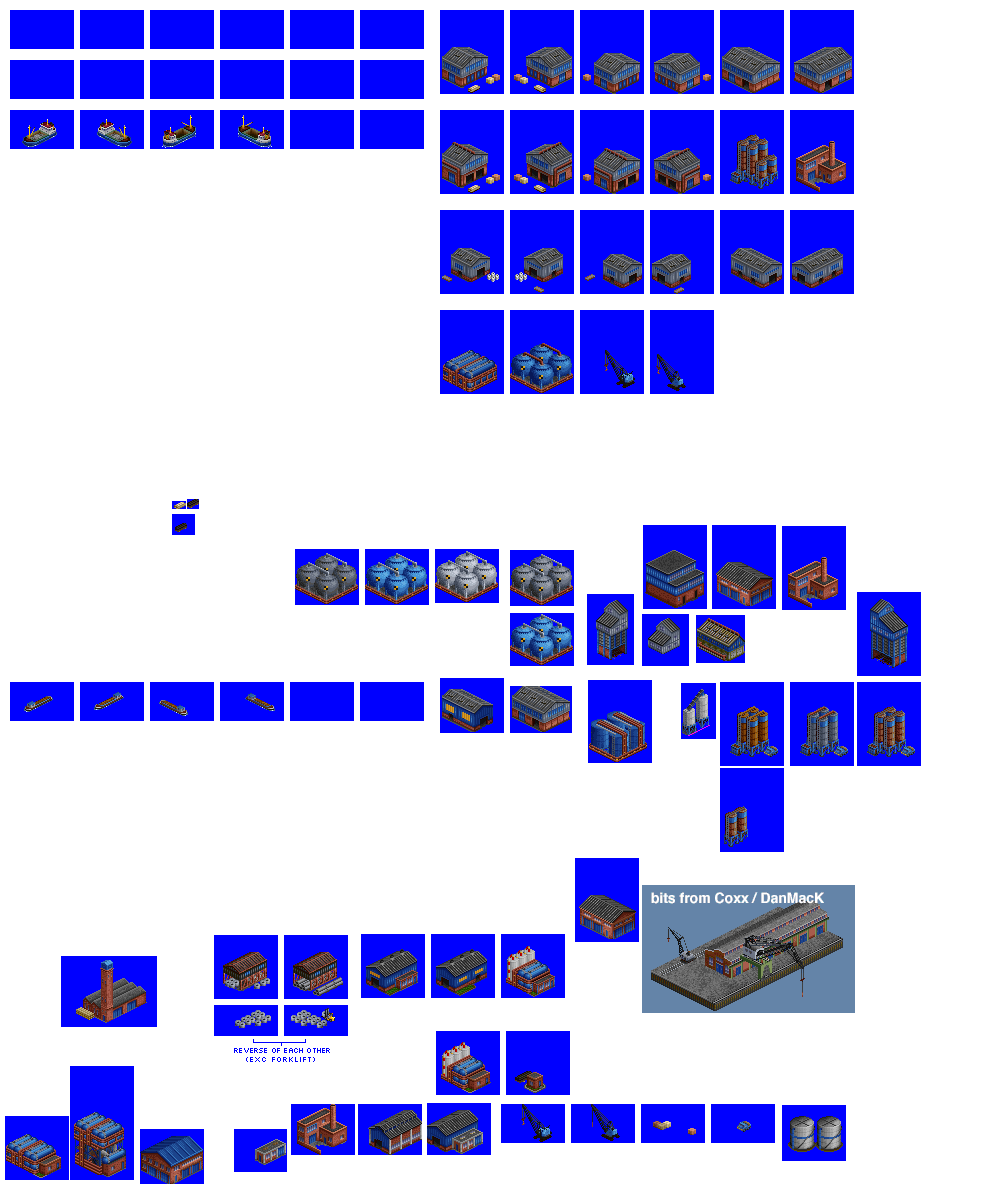
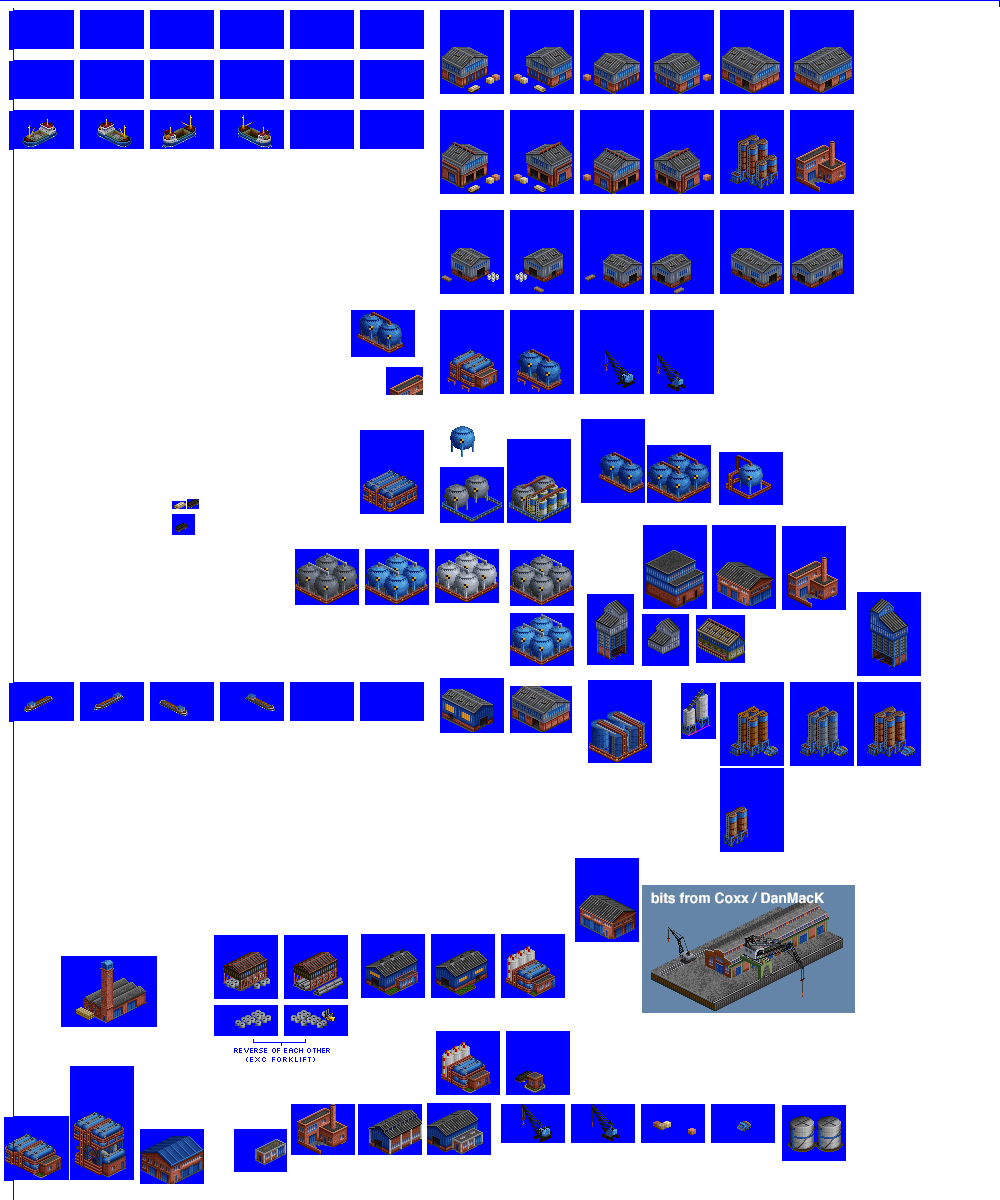
Change: improved version of Port, reduced chemical tank density

Changed region(s): [[0.341, 0.2467, 0.806, 0.4625], [0.0, 0.9558, 0.031, 0.9867]]

diff --git a/src/industries/port.py b/src/industries/port.py
@@ -164,33 +164,13 @@ spriteset_shed_full_nw_se = industry.add_spriteset(
 spriteset_shed_full_ne_sw = industry.add_spriteset(
     sprites=[(790, 210, 64, 84, -31, -61)],
 )
-# horizontal tanks use the same sprite, but adjusted offsets for each coast
-spriteset_tanks_horizontal_nw_se = industry.add_spriteset(
+spriteset_tanks_horizontal = industry.add_spriteset(
     sprites=[(440, 310, 64, 84, -31, -61)],
 )
-spriteset_tanks_horizontal_ne_sw = industry.add_spriteset(
-    sprites=[(440, 310, 64, 84, -27, -61)],
-)
-spriteset_tanks_horizontal_se_nw = industry.add_spriteset(
-    sprites=[(440, 310, 64, 84, -30, -61)],
-)
-spriteset_tanks_horizontal_sw_ne = industry.add_spriteset(
-    sprites=[(440, 310, 64, 84, -28, -61)],
-)
-# sphere tanks use the same sprite, but adjusted offsets for each coast
-spriteset_tanks_sphere_nw_se = industry.add_spriteset(
+spriteset_tanks_sphere = industry.add_spriteset(
     sprites=[(510, 310, 64, 84, -31, -61)],
 )
-spriteset_tanks_sphere_ne_sw = industry.add_spriteset(
-    sprites=[(510, 310, 64, 84, -30, -61)],
-)
-spriteset_tanks_sphere_se_nw = industry.add_spriteset(
-    sprites=[(510, 310, 64, 84, -30, -61)],
-)
-spriteset_tanks_sphere_sw_ne = industry.add_spriteset(
-    sprites=[(510, 310, 64, 84, -31, -61)],
-)
-# sphere tanks use the same sprite, but adjusted offsets for each coast
+# silos use the same sprite, but adjusted offsets for each coast
 spriteset_silos_nw_se = industry.add_spriteset(
     sprites=[(720, 110, 64, 84, -33, -60)],
 )
@@ -304,16 +284,16 @@ industry.add_magic_spritelayout(
         "jetty_foundations": True,
         "building_sprites": {
             "se": [
-                spriteset_tanks_horizontal_nw_se,
+                spriteset_tanks_horizontal,
             ],
             "sw": [
-                spriteset_tanks_horizontal_ne_sw,
+                spriteset_tanks_horizontal,
             ],
             "nw": [
-                spriteset_tanks_horizontal_se_nw,
+                spriteset_tanks_horizontal,
             ],
             "ne": [
-                spriteset_tanks_horizontal_sw_ne,
+                spriteset_tanks_horizontal,
             ],
         },
     },
@@ -326,16 +306,16 @@ industry.add_magic_spritelayout(
         "jetty_foundations": True,
         "building_sprites": {
             "se": [
-                spriteset_tanks_sphere_nw_se,
+                spriteset_tanks_sphere,
             ],
             "sw": [
-                spriteset_tanks_sphere_ne_sw,
+                spriteset_tanks_sphere,
             ],
             "nw": [
-                spriteset_tanks_sphere_se_nw,
+                spriteset_tanks_sphere,
             ],
             "ne": [
-                spriteset_tanks_sphere_sw_ne,
+                spriteset_tanks_sphere,
             ],
         },
     },
